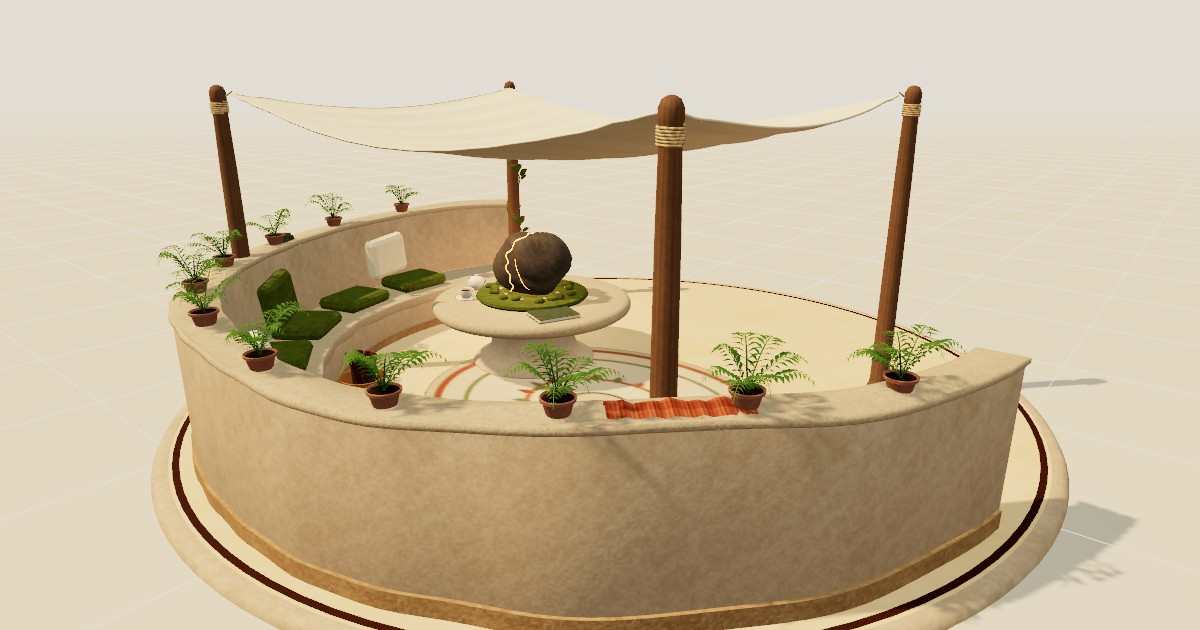
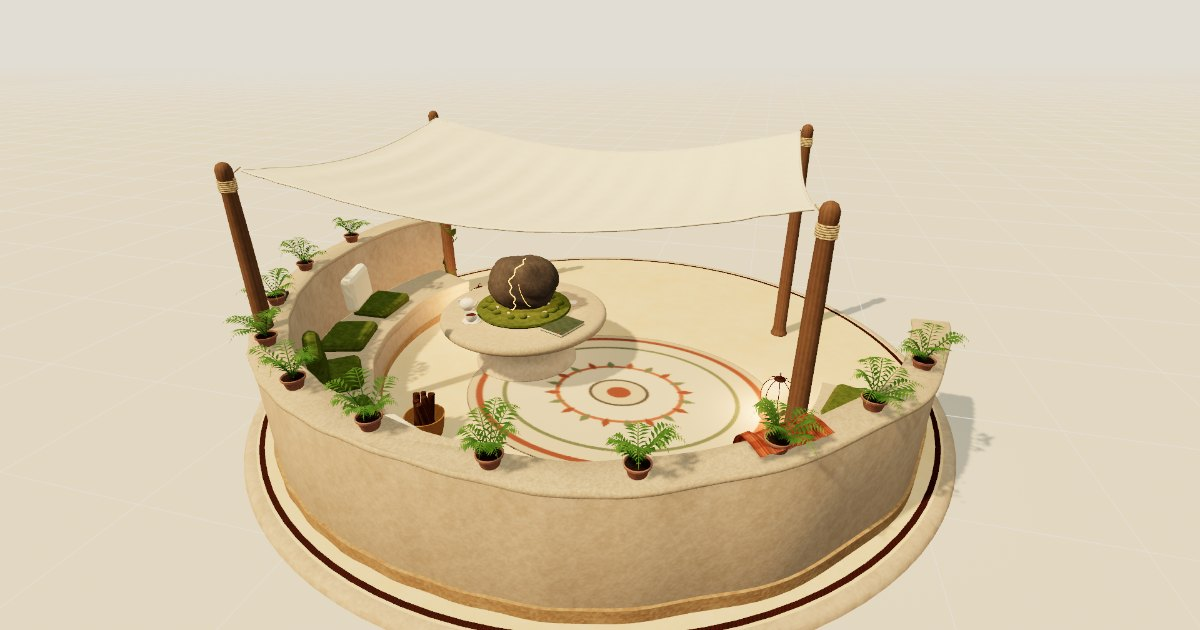
Add a re-pin tool for repaired example assets, maker-free capture shots, and retake the remaining cove images
- repinExampleAsset and scripts/repin-example-asset.mjs replace a pinned Kiln revision in every
  example that places the asset: GLB, world pin, receipts and integrity, verified before and after.
- docs/example-world-bundles.md gains "Repairing a pinned asset".
- The integrate-asset skill notes that Kiln QA can't see neighbouring modules or measure open
  surfaces, so draped soft goods need checking in the composed scene.
- Benchmark scenarios accept maker:false to capture a place without the walker.
- Retake the Cove social card and the Courtyard and Tidemark cove shots with the repaired throw.
- Link Meridian Sanctuary's Kiln gallery from the scene shelf.

diff --git a/src/viewer/main.jsx b/src/viewer/main.jsx
@@ -16,13 +16,14 @@ import {Diagnostics,RenderReadiness} from './diagnostics.jsx';
 import {createInitializationEvidence} from './renderer-diagnostics.mjs';
 import {enableParallelCompile} from '../world/parallel-compile.js';
 import {DEFAULT_EXPOSURE} from '../world/lighting.mjs';
-import {validateScenario,scenarioCamera} from './benchmark-protocol.mjs';
+import {validateScenario,scenarioCamera,withoutMaker} from './benchmark-protocol.mjs';
 import {createTouchInput} from '../world/touch-input.mjs';
 import {TouchControls,useTouchMode} from '../world/touch.jsx';
 import {EmoteWheel} from '../world/emote-wheel.jsx';
 import {createEmoteInput} from '../world/emote-wheel.mjs';
 const benchmarkEnabled=new URLSearchParams(location.search).get('benchmark')==='1';
-const benchmarkCamera=benchmarkEnabled&&window.holodeckBenchmarkScenario?scenarioCamera(validateScenario(window.holodeckBenchmarkScenario)):{};
+const benchmarkScenario=benchmarkEnabled&&window.holodeckBenchmarkScenario?validateScenario(window.holodeckBenchmarkScenario):null;
+const benchmarkCamera=benchmarkScenario?scenarioCamera(benchmarkScenario):{};
 const initialization=benchmarkEnabled?createInitializationEvidence({forceWebGL:new URLSearchParams(location.search).get('backend')==='webgl'}):null;
 
 const noop=()=>{};
@@ -38,6 +39,7 @@ function useStaticBundle(){
   (async()=>{
    const response=await fetch(new URL('./scene.json',document.baseURI),{signal:controller.signal});if(!response.ok)throw new Error('The exported scene file could not be loaded.');
    const payload=await response.json();if(payload.format!=='holodeck-view-v1')throw new Error('Unsupported static scene format');validateWorld(payload.world);
+   if(benchmarkScenario?.maker===false)payload.world=withoutMaker(payload.world);
    const loader=new GLTFLoader(),byUrl=new Map();
    const entries=await Promise.all(payload.world.scene.assets.map(async asset=>{
     const entry=payload.assets[asset.id];if(!entry||!/^\.\/assets\/imports\/[a-f0-9]{64}\.glb$/.test(entry.url)||entry.url!==`./assets/imports/${entry.hash}.glb`)throw new Error('Invalid exported asset path');

diff --git a/site/index.html b/site/index.html
@@ -228,7 +228,7 @@
           </div>
           <div class="scene-copy">
             <div><h3><a href="worlds/meridian-sanctuary/">Meridian Sanctuary</a></h3><p>A marble sanctuary above the clouds: a causeway between mirror pools, terraces climbing to a gate tower, floating statues and mirrored orbs, and a bridge path off to the side.</p></div>
-            <p class="scene-links"><a class="enter" href="worlds/meridian-sanctuary/">Enter the scene ↗</a></p>
+            <p class="scene-links"><a class="enter" href="worlds/meridian-sanctuary/">Enter the scene ↗</a><a class="gallery" href="https://kilnstudio.tools/packs/holodeck/meridian-sanctuary/">Its assets in the Kiln gallery</a></p>
           </div>
         </article>
         <article class="scene" id="scene-crescent-cove">

diff --git a/docs/example-world-bundles.md b/docs/example-world-bundles.md
@@ -101,6 +101,41 @@ Both writer and installer refuse existing destinations. An interrupted output
 retains an `EXAMPLE-INCOMPLETE.txt` or `INSTALL-INCOMPLETE.txt` marker; the library
 must not treat it as ready. The same rule applies to `REMIX-INCOMPLETE.txt`.
 
+## Repairing a pinned asset
+
+When a placed asset has a defect, such as a cloth through a neighbouring module,
+fix it in the separate Kiln workspace and save it as a new revision of the same
+asset (`--asset <id> --parent <revision>`). Then re-pin the packaged examples
+from that revision directory:
+
+```sh
+node scripts/repin-example-asset.mjs <kiln store>/assets/kiln/<assetId>/revisions/<revisionId>
+```
+
+`repinExampleAsset(directory, {assetId, revisionId, bytes})` verifies the whole
+bundle first. In every example that places the asset, it writes the new
+content-addressed GLB, updates the world's `file` and `provenance.revisionId`,
+and refreshes the world and asset receipts and the integrity. It removes the old
+GLB once nothing references it, then verifies the bundle again. Examples that
+don't place the asset are left alone, and a second run reports them as already
+pinned. `sourceRevision` stays the same, because only the asset changed, not the
+authored scene. A run that fails partway leaves `EXAMPLE-INCOMPLETE.txt`. Restore
+that bundle from version control and run it again.
+
+The Cove's starter modules are not bundles. The script reports any module that
+still pins the old revision. Update these by hand:
+
+- `assets/cove/modules/<id>/`: `source.kiln.js`, `review.png` and
+  `provenance.json`, with the parent revision.
+- The module's entry in `assets/cove/modules/manifest.json`.
+- `public/assets/cove-modules/<id>.glb`.
+
+Authoring worlds pin assets through their own history, so commit their re-pin
+through Holodeck. Kiln's QA checks a module on its own, so check a repair to
+soft goods, or anything resting against another module, in the composed scene.
+Retake every site image that shows the repaired asset. A capture scenario with
+`maker: false` leaves the walker out of shots of a place.
+
 ## Future sharing boundary
 
 The same versioned data contract can support downloadable worlds later. There

diff --git a/skills/holodeck-integrate-asset/SKILL.md b/skills/holodeck-integrate-asset/SKILL.md
@@ -59,6 +59,13 @@ preserving mappings to source parts and scene IDs. Do not weld an operable gate,
 door or moving lamp irreversibly into the architecture. Rendering optimization
 does not establish physical fit or interaction behavior.
 
+Kiln QA checks one module at a time and can't see its neighbours. It reports
+open surfaces such as cloth, canopies and ivy as unmeasured. A module can pass QA
+and still run through another module: a throw through a wall or a mast, say.
+When soft goods drape over another module, or modules share an origin, check the
+composed scene in the browser from close views of each contact. A repair is a new
+revision of the same asset; re-pin it everywhere it is placed.
+
 Verify the destination: supports, overlaps, passage clearances, collision, picking
 identity, lights and visibility/lifetime. Match collision to the current controller
 and scene layout. Record source QA separately from runtime-loaded and in-scene
